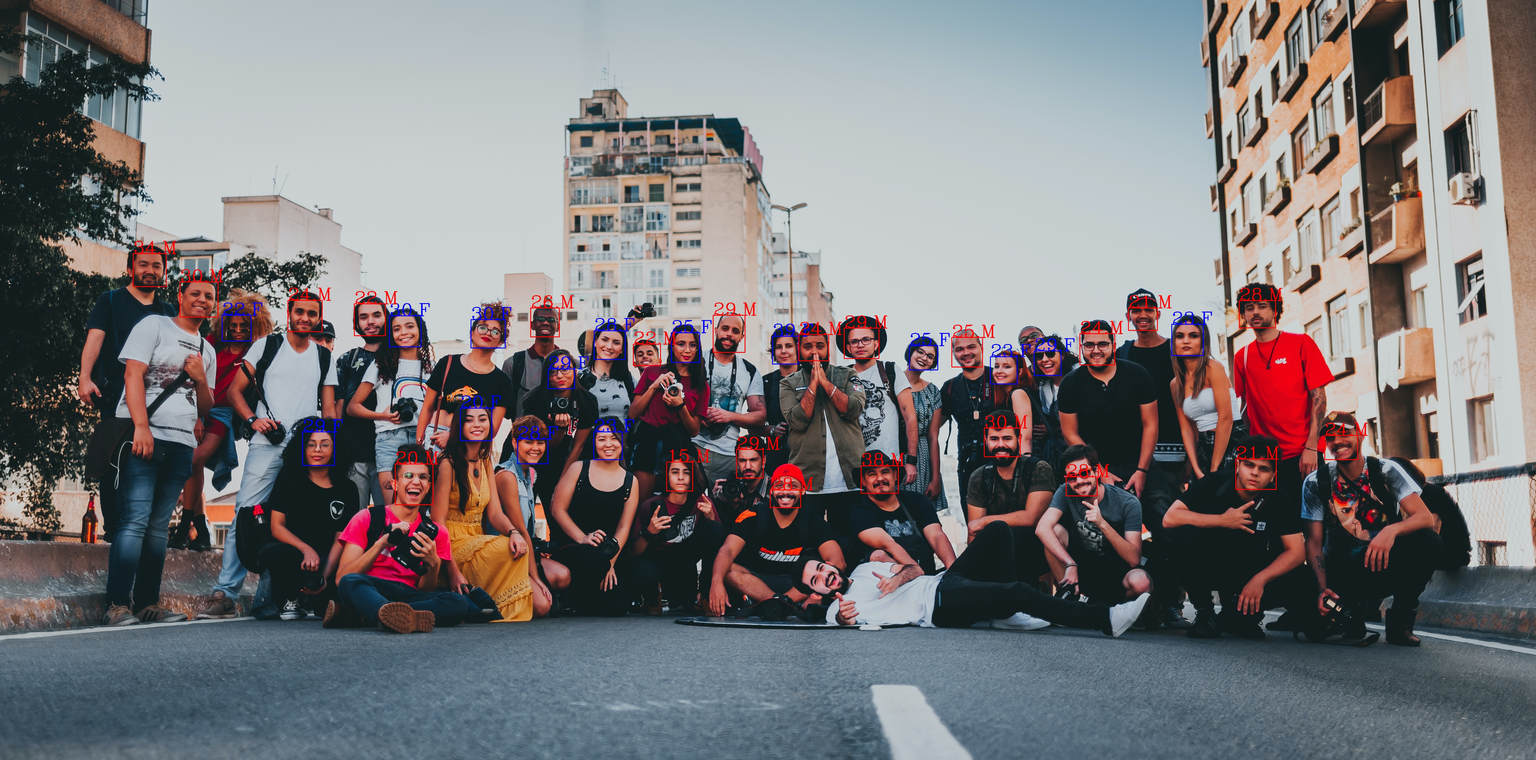
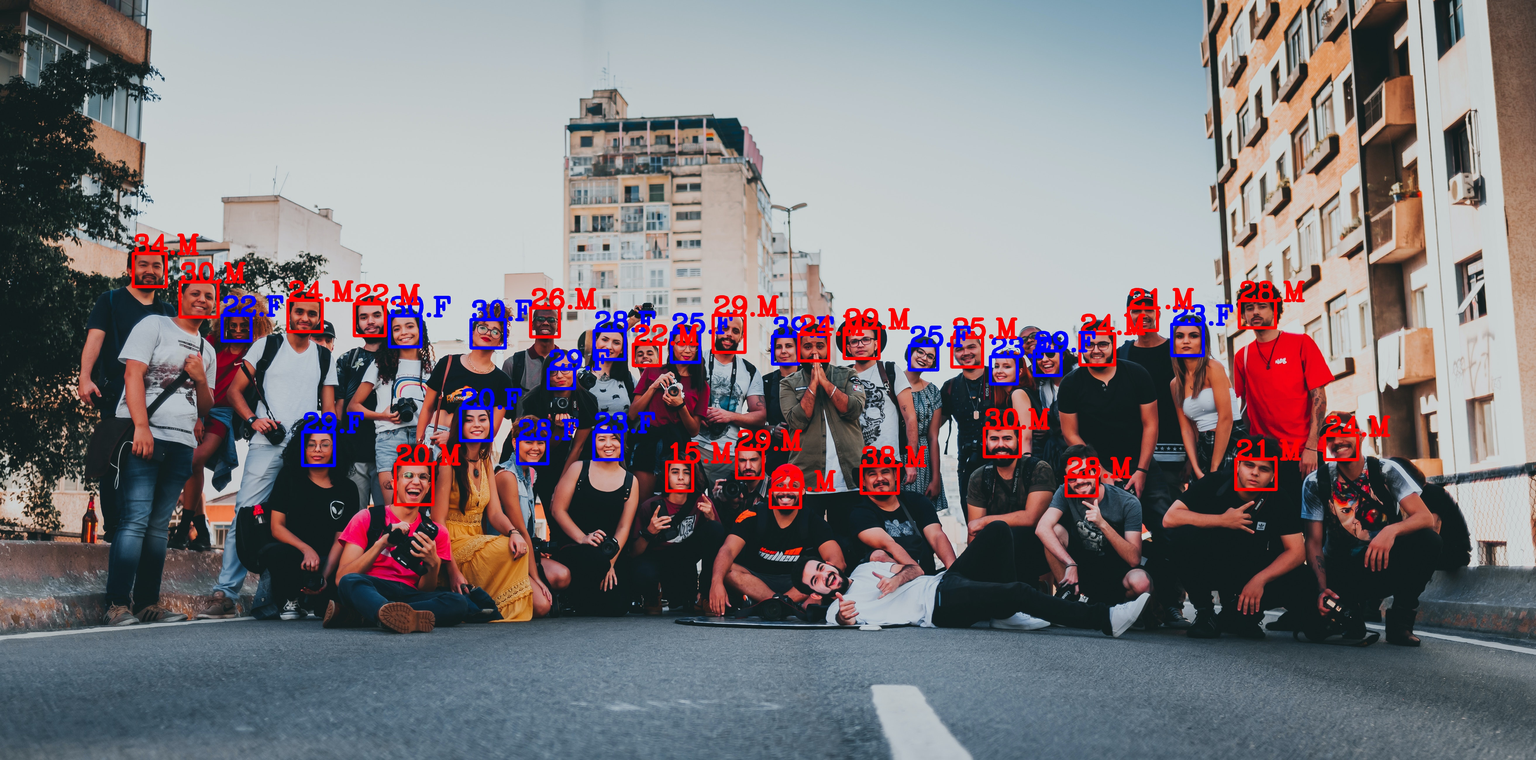
Added thickness of the Bounding box

diff --git a/MiVOLO_age_and_gender/inference.py b/MiVOLO_age_and_gender/inference.py
@@ -150,6 +150,6 @@ if __name__ == '__main__':
             color = (255,0,0)
         else:
             color = (0,0,255)
-        original_image = cv2.rectangle(original_image,(person['bbox'][0],person['bbox'][1]),(person['bbox'][2],person['bbox'][3]),color,2)
-        original_image = cv2.putText(original_image,str(person['age'])+"."+str(person['gender']),(person['bbox'][0],person['bbox'][1]),cv2.FONT_HERSHEY_COMPLEX,2,color,2)
+        original_image = cv2.rectangle(original_image,(person['bbox'][0],person['bbox'][1]),(person['bbox'][2],person['bbox'][3]),color,10)
+        original_image = cv2.putText(original_image,str(person['age'])+"."+str(person['gender']),(person['bbox'][0],person['bbox'][1]),cv2.FONT_HERSHEY_COMPLEX,3,color,10)
     cv2.imwrite('output.jpg',original_image)
